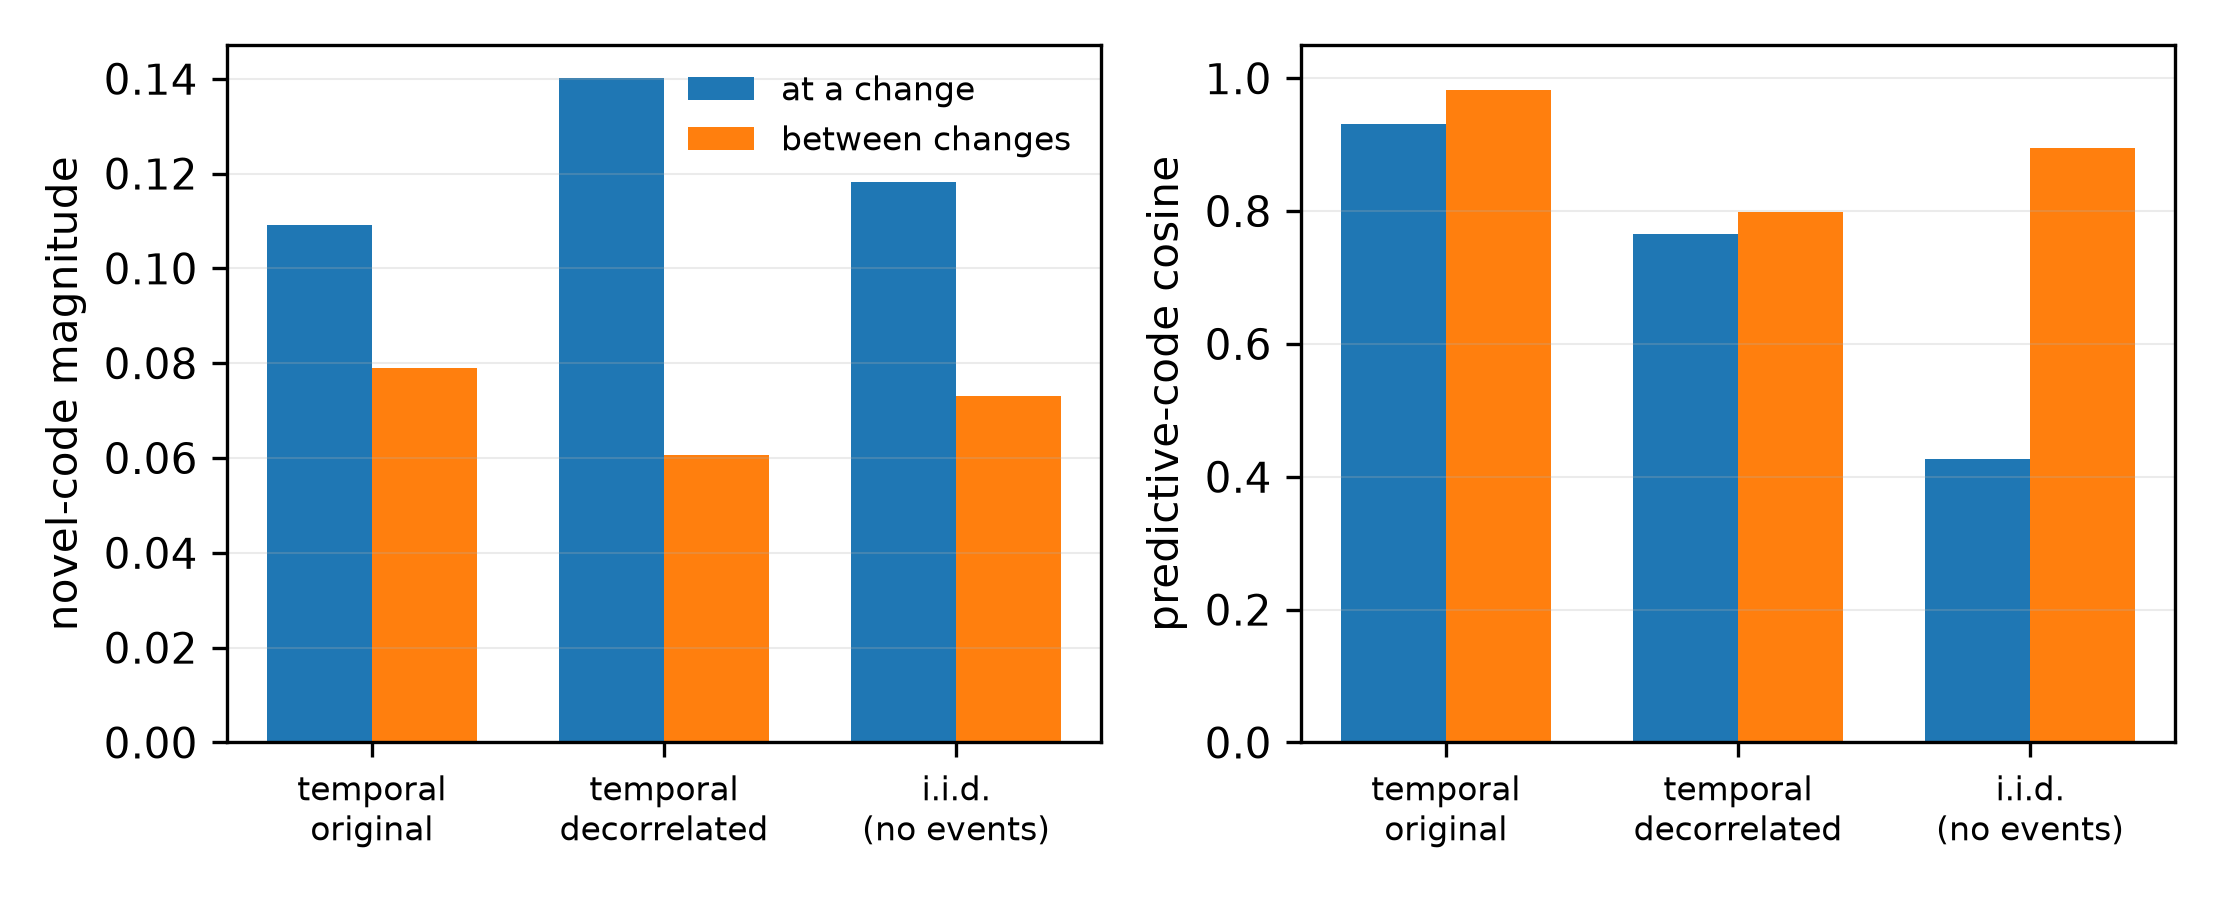
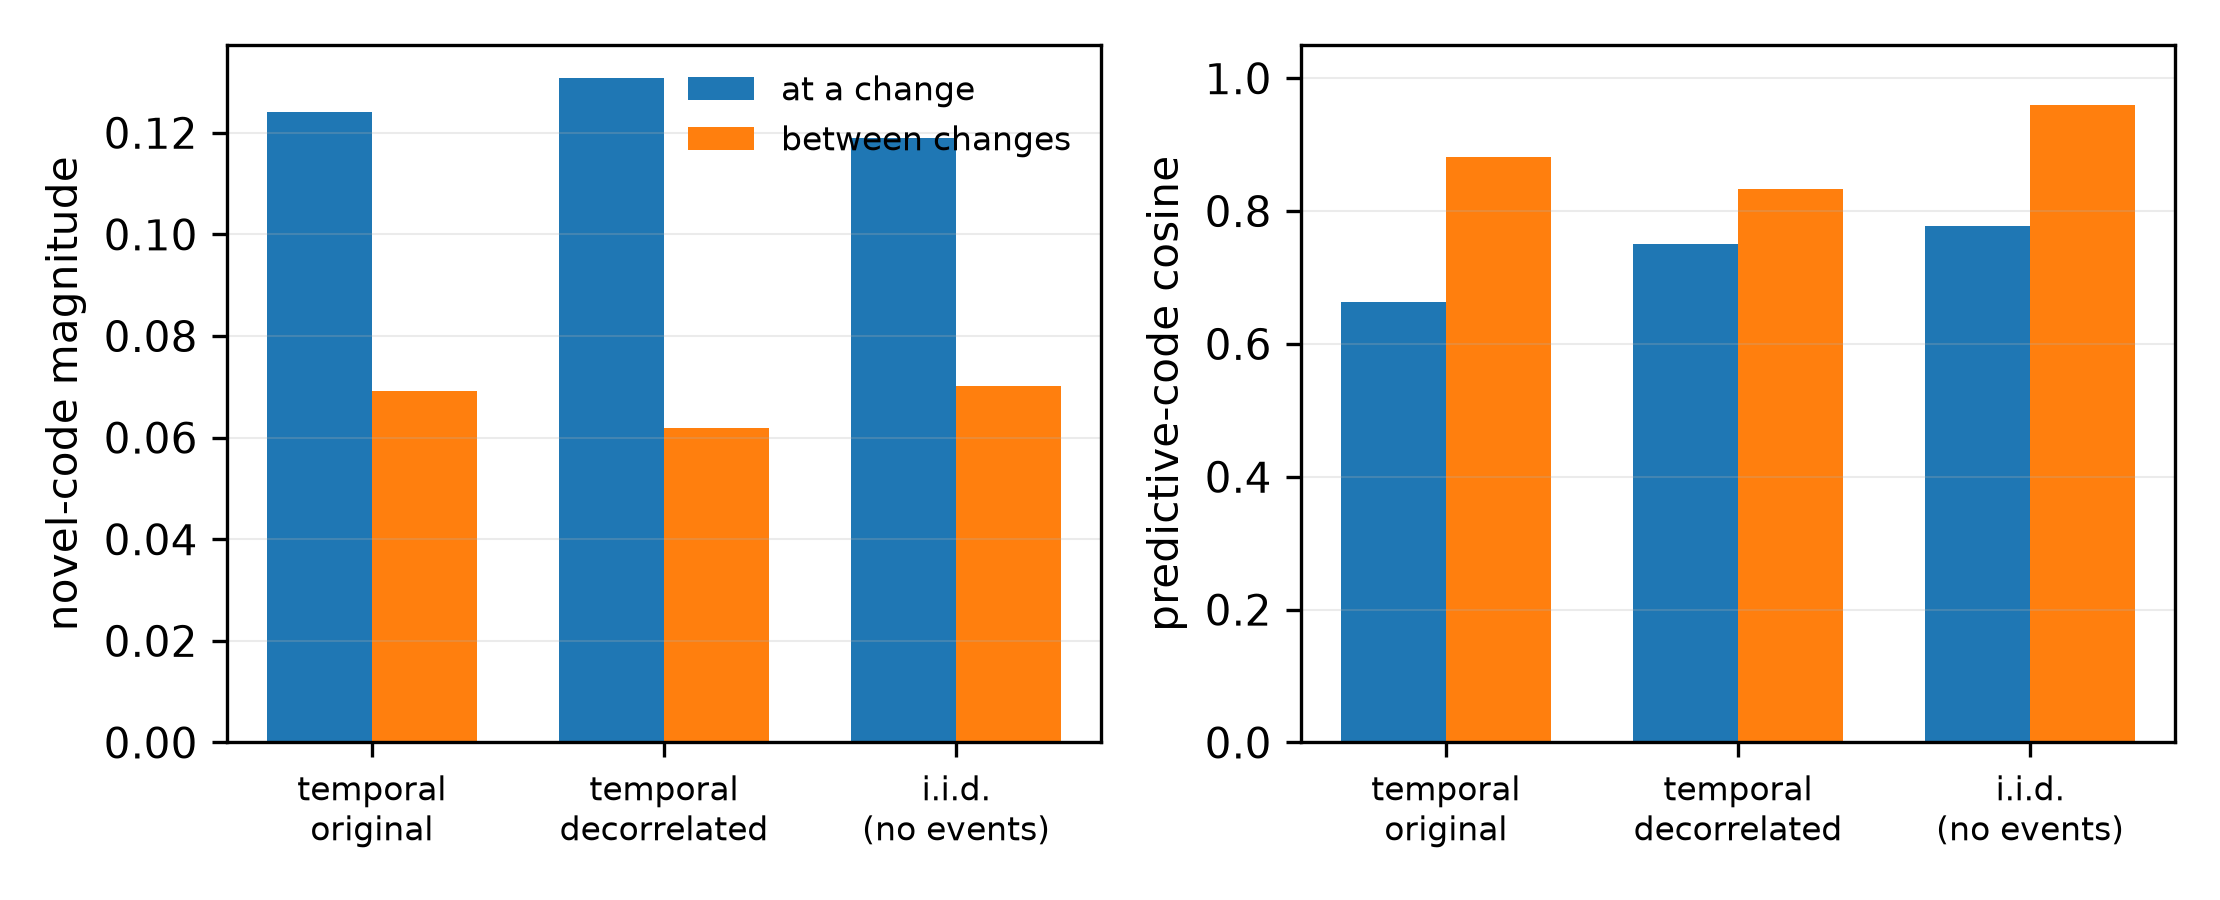
results(toy): eight seeds for the Priors in Time boundary test, and one measure withdrawn
Five further seeds per cell, 3 to 7, on the recipe already in the log. The stated prediction
that failed at three seeds fails harder at eight. The measure that was not stated in advance
does not survive them at all.

The stated prediction. Novel-code magnitude rises at a planted parent-state change in the null
as well, where the data carries no events:

  temporal, original      1.832  spread 0.359   range 1.29 to 2.21
  temporal, decorrelated  2.221  spread 0.408   range 1.66 to 2.85
  null, no events         1.705  spread 0.139   range 1.50 to 2.00

The null is above one at every one of its eight seeds, its range overlaps both temporal
conditions, and it has the tightest spread of the three. This is not a noisy measurement
failing to separate. The null is the steadiest cell and it sits inside the others.

The measure that was not stated in advance. Predictive-code cosine appeared to separate the
null at 0.43 against 0.93 on three seeds. On eight:

  temporal, original   0.931 -> 0.663
  temporal, decorr     0.765 -> 0.750
  null                 0.427 -> 0.778

The null was the lowest of the three and is now the highest. Its eight readings are 0.135,
0.990, 0.156, 0.986, 0.973, 0.996, 0.991 and 0.994. The first three seeds happened to contain
two low values. Spread across seeds is 0.24 to 0.40 on a measure bounded in [-1, 1], and the
three cells overlap completely. It is withdrawn.

The table keeps both predictive columns and says in its note that they are shown for
[…]

diff --git a/reporting/make_priors_report.py b/reporting/make_priors_report.py
@@ -140,23 +140,34 @@ def t_toy_boundary():
         m = lambda k: st.mean(g[k] for g in got)
         at, wi = m("novel_mag_at"), m("novel_mag_within")
         pa, pw = m("pred_cos_at"), m("pred_cos_within")
+        # The null row is emphasised on the ratio, because the ratio is the result: it
+        # is above one where the data has no events at all. The two predictive columns
+        # were emphasised here while they appeared to separate the null on three seeds.
+        # On eight they do not, so the emphasis is gone and so is the claim.
         bold = key == "pit_null"
-        f = lambda v, p=3: (r"\textbf{" + f"{v:.{p}f}" + "}") if bold else f"{v:.{p}f}"
-        rows.append([name, f"{at:.3f}", f"{wi:.3f}", f"{at/wi:.2f}", f(pa, 4), f"{pw:.4f}"])
+        rat = f"{at/wi:.2f}"
+        rows.append([name, f"{at:.3f}", f"{wi:.3f}",
+                     (r"\textbf{" + rat + "}") if bold else rat,
+                     f"{pa:.4f}", f"{pw:.4f}"])
     return table(
         "pit-boundary",
         TODO.format("What the two parts do at points where we changed the hidden "
                     "state on purpose. We wrote down two predictions before running "
                     "this. The new part would be more active at those points. That extra "
                     "activity would disappear in the control, which has no such points "
-                    "to find. The first held. The second did not: the ratio is above one "
-                    "in the control as well."),
+                    "to find. The first held. The second did not. The ratio is above one "
+                    "in the control at every one of its eight runs, and the control is "
+                    "the steadiest of the three rows. The last two columns were once "
+                    "read as separating the control, on three runs. With eight they do "
+                    "not, and we no longer report them as a result."),
         ["condition", "novel at", "novel between", "ratio",
          "pred.\\ cos at", "pred.\\ cos between"],
         rows, align="lrrrrr",
-        note="The novel-code ratio exceeds one in the null as well, where the data carries no "
-             "events. The predictive column separates the null from the other two. That "
-             "measure was recorded alongside but not stated in advance.")
+        note="Eight runs per row. The ratio is above one in the null as well, where the data "
+             "carries no events at all, and the null is the steadiest of the three rows "
+             "(spread 0.139 against 0.359 and 0.408). The two predictive columns are shown "
+             "for completeness. They were once read as separating the null, on three runs; "
+             "on eight they do not, and they are no longer offered as a result.")
 
 
 def f_boundary(out_dir: Path):

diff --git a/outputs/paper_figuers/priors_saes-tables.tex b/outputs/paper_figuers/priors_saes-tables.tex
@@ -81,16 +81,16 @@
 \begin{table}[tbp]
   \centering
   \small
-  \caption{TODO(caption, human-written). What the two parts do at points where we changed the hidden state on purpose. We wrote down two predictions before running this. The new part would be more active at those points. That extra activity would disappear in the control, which has no such points to find. The first held. The second did not: the ratio is above one in the control as well.}
+  \caption{TODO(caption, human-written). What the two parts do at points where we changed the hidden state on purpose. We wrote down two predictions before running this. The new part would be more active at those points. That extra activity would disappear in the control, which has no such points to find. The first held. The second did not. The ratio is above one in the control at every one of its eight runs, and the control is the steadiest of the three rows. The last two columns were once read as separating the control, on three runs. With eight they do not, and we no longer report them as a result.}
   \label{tab:pit-boundary}
   \begin{tabular}{lrrrrr}
     \toprule
     condition & novel at & novel between & ratio & pred.\ cos at & pred.\ cos between \\
     \midrule
-    temporal, original & 0.109 & 0.079 & 1.38 & 0.9309 & 0.9829 \\
-    temporal, decorrelated & 0.140 & 0.061 & 2.31 & 0.7654 & 0.7987 \\
-    \textbf{i.i.d. (no events)} & 0.118 & 0.073 & 1.62 & \textbf{0.4270} & 0.8954 \\
+    temporal, original & 0.124 & 0.069 & 1.79 & 0.6632 & 0.8816 \\
+    temporal, decorrelated & 0.131 & 0.062 & 2.11 & 0.7499 & 0.8327 \\
+    \textbf{i.i.d. (no events)} & 0.119 & 0.070 & \textbf{1.70} & 0.7777 & 0.9602 \\
     \bottomrule
   \end{tabular}
-  \\[2pt] \footnotesize The novel-code ratio exceeds one in the null as well, where the data carries no events. The predictive column separates the null from the other two. That measure was recorded alongside but not stated in advance.
+  \\[2pt] \footnotesize Eight runs per row. The ratio is above one in the null as well, where the data carries no events at all, and the null is the steadiest of the three rows (spread 0.139 against 0.359 and 0.408). The two predictive columns are shown for completeness. They were once read as separating the null, on three runs; on eight they do not, and they are no longer offered as a result.
 \end{table}
